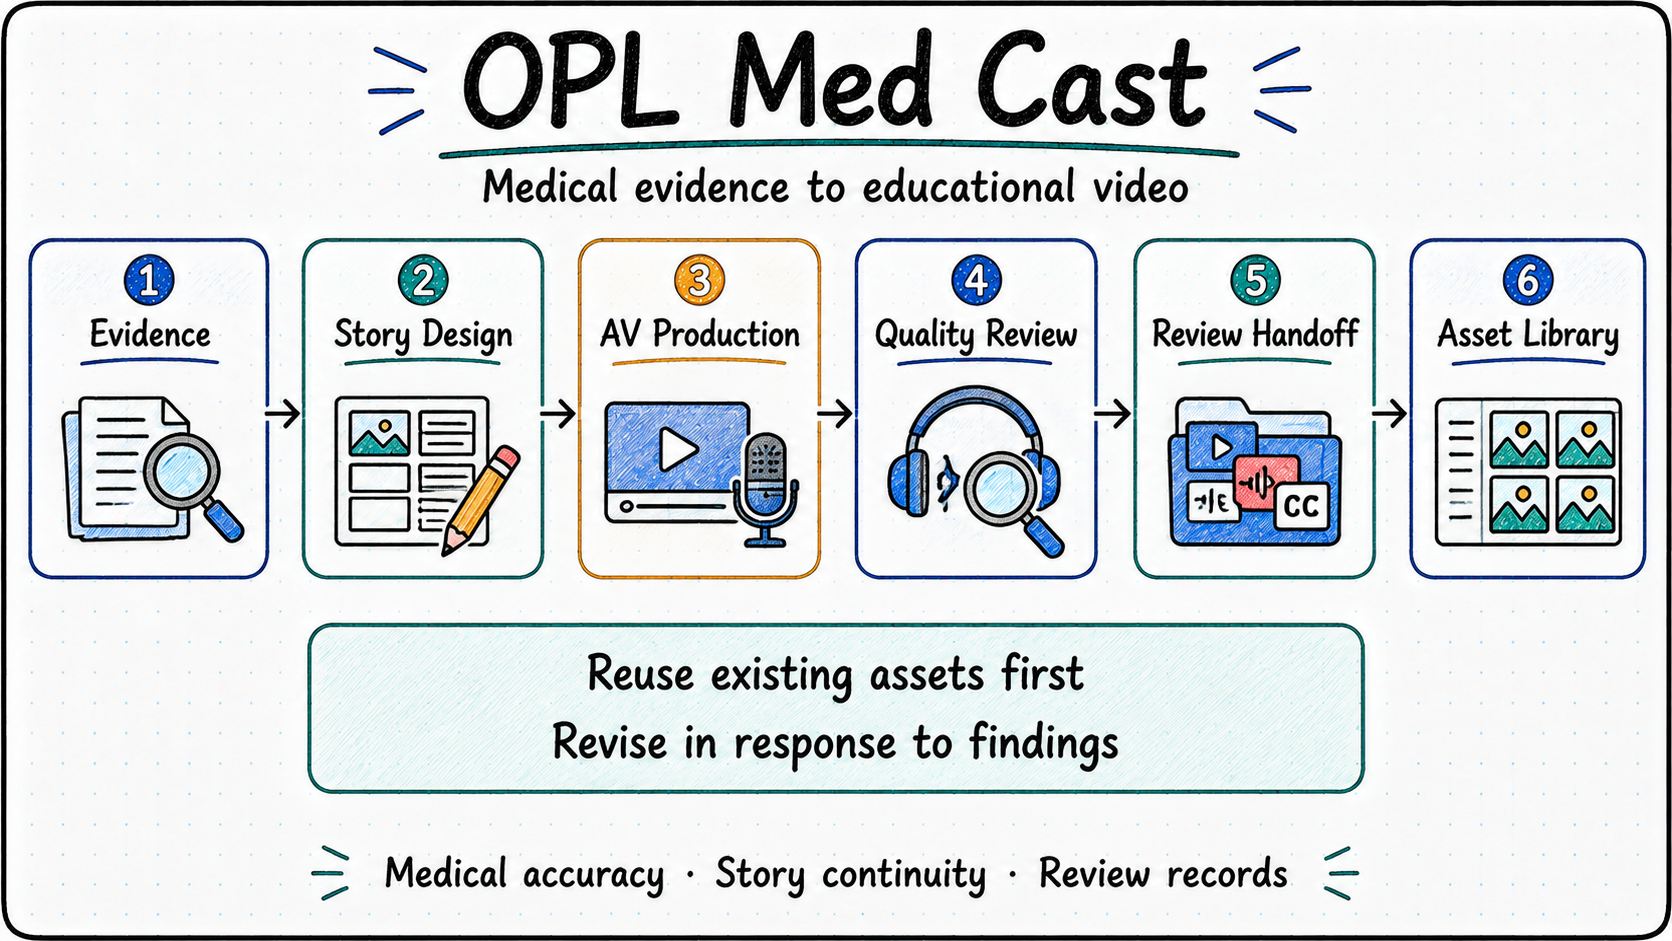
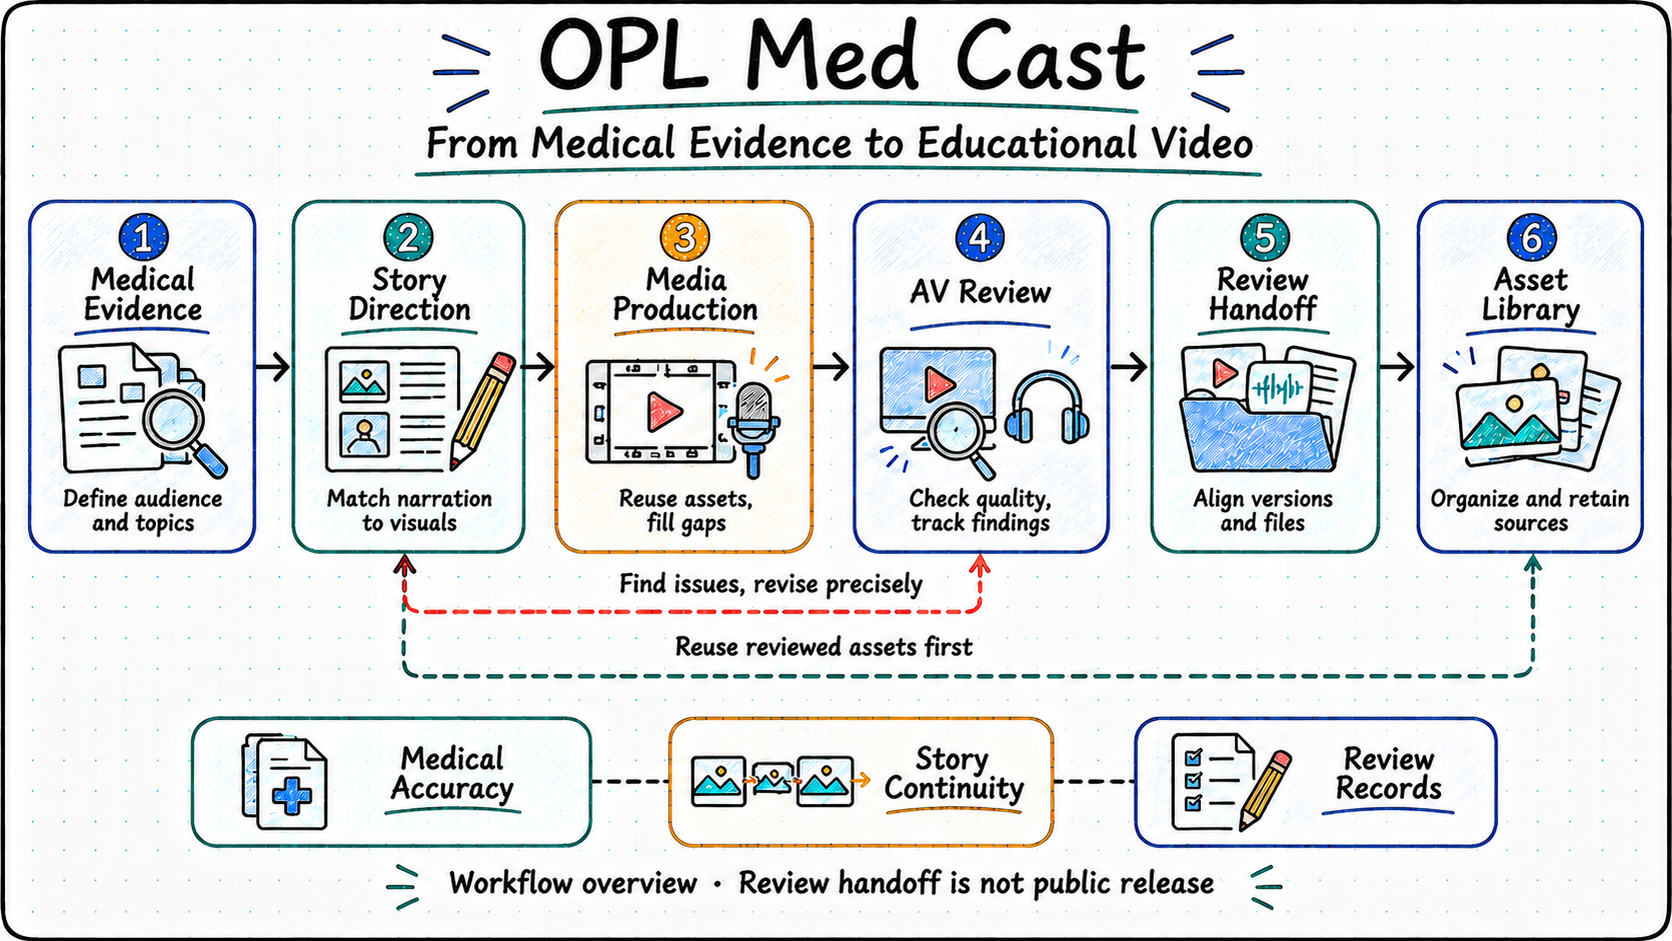
统一英文工作流示意图与 Release 展示

Changed region(s): [[0.0, 0.0, 1.0, 0.9862], [0.0, 0.9554, 0.9952, 1.0]]

diff --git a/scripts/build_release.py b/scripts/build_release.py
@@ -1,4 +1,4 @@
-"""Build versioned preview archives from an annotated, clean source commit."""
+"""Build versioned release archives from an annotated, clean source commit."""
 import hashlib
 import json
 from pathlib import Path
@@ -40,7 +40,7 @@ with zipfile.ZipFile(plugin, 'w', compression=zipfile.ZIP_DEFLATED) as archive:
         'codex plugin add opl-medcast@opl-medcast --json\n\n'
         'Python helpers require Python >=3.10 and PyYAML >=6,<7.\n'
         'Helper: plugins/opl-medcast/skills/opl-medcast/runtime/native_helpers/medcast.py\n'
-        'Preview only; OPL hosted activation and independent qualification remain pending.\n'
+        'OPL hosted activation and independent qualification remain pending.\n'
         'Source: https://github.com/gaofeng21cn/opl-medcast/tree/' + tag + '\n')
 checksums = output / 'SHA256SUMS'
 checksums.write_text(''.join(f'{hashlib.sha256(p.read_bytes()).hexdigest()}  {p.name}\n' for p in [source, plugin]))

diff --git a/docs/releases/v0.1.0.md b/docs/releases/v0.1.0.md
@@ -1,14 +1,25 @@
-# OPL Med Cast 0.1.0 · 首个公开预览版
+# OPL Med Cast 0.1.0
 
-面向医学科普视频的首个可下载版本，提供系列规划、故事与镜头设计、视听制作组织、质量复核、审看交付和关键帧资产整理方法。
+The first release of OPL Med Cast brings medical evidence, story direction, audiovisual production, review handoff, and reusable keyframe curation into one medical education video workflow.
 
-- 三个动作、六个阶段、六个专业技能，沿用 OPL 标准声明式结构。
-- 将既有制作经验落实到 SOP：优先复用素材和已审音轨，排除拒用源片，检查叙事连续性与人物构图，按具体缺陷返修。
-- 提供工作区检查、关键帧检索和交付预检三个只读辅助命令。
-- 提供中英文 README、统一风格的标志与流程示意图。
+- Three actions, six stages, and six professional skills follow the OPL declarative agent structure.
+- Production SOPs capture practical lessons: reuse reviewed assets and unchanged narration, exclude rejected footage, review story continuity and framing, and repair specific findings.
+- Three read-only helpers inspect workspaces, search the keyframe library, and check delivery packages.
+- English and Chinese READMEs share the same English workflow illustration in the OPL hand-drawn style.
 
-下载文件包括源码归档、Codex 插件包和 SHA256SUMS。市场与插件名称均为 opl-medcast，安装选择器为 opl-medcast@opl-medcast。安装与环境准备见仓库 docs/installation.md。
+## Installation
 
-14 个行为测试、OPL 结构检查、接口生成、源码目录检查、辅助程序定位和插件清单校验已通过；现有制作工作区已完成只读接入验证。
+```bash
+codex plugin marketplace add gaofeng21cn/opl-medcast --ref v0.1.0 --json
+codex plugin add opl-medcast@opl-medcast --json
+```
 
-本版本以 GitHub 预览版及 Codex 插件形式分发，未进入 OPL GHCR 稳定软件包渠道。OPL Meta Agent 工程调用在启动前因安装身份不一致受阻，尚无设计蓝图、独立资格结果或 OPL 托管激活；该问题及恢复条件见 docs/status.md。具体视频仍需分别完成视听与医学复核。
+Download the source archive, Codex plugin bundle, and `SHA256SUMS` below. Helpers require Python 3.10 or later and PyYAML 6.x. See the [installation guide](https://github.com/gaofeng21cn/opl-medcast/blob/main/docs/installation.md) for details.
+
+## Verification
+
+All 14 behavioral tests, OPL structure checks, generated interfaces, source hygiene checks, helper discovery, and plugin manifest validation passed. The extracted source also passed in a separate Python environment. A real installation from the public tag matched all 85 shipped plugin files and ran the helper successfully. All three attachments were downloaded anonymously and verified against the local release artifacts.
+
+The versioned archives and `v0.1.0` tag retain source commit `ee83b6a35f9dbc33e7a005ab43844c122ddd411b`; the updated README artwork and release documentation are available on the repository's main branch. [Release source CI](https://github.com/gaofeng21cn/opl-medcast/actions/runs/34930945109) passed.
+
+Independent OPL Meta Agent qualification, OPL hosted activation, and GHCR stable Package publication remain pending. The engineering request stopped before launch because the installed plugin identity did not match its descriptor. See [implementation status](https://github.com/gaofeng21cn/opl-medcast/blob/main/docs/status.md) for the recorded boundary and recovery conditions. Individual videos still require audiovisual and medical review.

diff --git a/plugins/opl-medcast/skills/opl-medcast/docs/releases/v0.1.0.md b/plugins/opl-medcast/skills/opl-medcast/docs/releases/v0.1.0.md
@@ -1,14 +1,25 @@
-# OPL Med Cast 0.1.0 · 首个公开预览版
+# OPL Med Cast 0.1.0
 
-面向医学科普视频的首个可下载版本，提供系列规划、故事与镜头设计、视听制作组织、质量复核、审看交付和关键帧资产整理方法。
+The first release of OPL Med Cast brings medical evidence, story direction, audiovisual production, review handoff, and reusable keyframe curation into one medical education video workflow.
 
-- 三个动作、六个阶段、六个专业技能，沿用 OPL 标准声明式结构。
-- 将既有制作经验落实到 SOP：优先复用素材和已审音轨，排除拒用源片，检查叙事连续性与人物构图，按具体缺陷返修。
-- 提供工作区检查、关键帧检索和交付预检三个只读辅助命令。
-- 提供中英文 README、统一风格的标志与流程示意图。
+- Three actions, six stages, and six professional skills follow the OPL declarative agent structure.
+- Production SOPs capture practical lessons: reuse reviewed assets and unchanged narration, exclude rejected footage, review story continuity and framing, and repair specific findings.
+- Three read-only helpers inspect workspaces, search the keyframe library, and check delivery packages.
+- English and Chinese READMEs share the same English workflow illustration in the OPL hand-drawn style.
 
-下载文件包括源码归档、Codex 插件包和 SHA256SUMS。市场与插件名称均为 opl-medcast，安装选择器为 opl-medcast@opl-medcast。安装与环境准备见仓库 docs/installation.md。
+## Installation
 
-14 个行为测试、OPL 结构检查、接口生成、源码目录检查、辅助程序定位和插件清单校验已通过；现有制作工作区已完成只读接入验证。
+```bash
+codex plugin marketplace add gaofeng21cn/opl-medcast --ref v0.1.0 --json
+codex plugin add opl-medcast@opl-medcast --json
+```
 
-本版本以 GitHub 预览版及 Codex 插件形式分发，未进入 OPL GHCR 稳定软件包渠道。OPL Meta Agent 工程调用在启动前因安装身份不一致受阻，尚无设计蓝图、独立资格结果或 OPL 托管激活；该问题及恢复条件见 docs/status.md。具体视频仍需分别完成视听与医学复核。
+Download the source archive, Codex plugin bundle, and `SHA256SUMS` below. Helpers require Python 3.10 or later and PyYAML 6.x. See the [installation guide](https://github.com/gaofeng21cn/opl-medcast/blob/main/docs/installation.md) for details.
+
+## Verification
+
+All 14 behavioral tests, OPL structure checks, generated interfaces, source hygiene checks, helper discovery, and plugin manifest validation passed. The extracted source also passed in a separate Python environment. A real installation from the public tag matched all 85 shipped plugin files and ran the helper successfully. All three attachments were downloaded anonymously and verified against the local release artifacts.
+
+The versioned archives and `v0.1.0` tag retain source commit `ee83b6a35f9dbc33e7a005ab43844c122ddd411b`; the updated README artwork and release documentation are available on the repository's main branch. [Release source CI](https://github.com/gaofeng21cn/opl-medcast/actions/runs/34930945109) passed.
+
+Independent OPL Meta Agent qualification, OPL hosted activation, and GHCR stable Package publication remain pending. The engineering request stopped before launch because the installed plugin identity did not match its descriptor. See [implementation status](https://github.com/gaofeng21cn/opl-medcast/blob/main/docs/status.md) for the recorded boundary and recovery conditions. Individual videos still require audiovisual and medical review.

diff --git a/README.md b/README.md
@@ -42,7 +42,7 @@ These actions connect six stages and can continue from existing work. An episode
 
 **Keep delivery status explicit.** Technical checks, visual review, continuous motion, full listening, medical review, and platform upload have separate records. A review package may contain clearly identified pending work; public release still requires the relevant review and authorization.
 
-## Install The Preview
+## Installation
 
 Download the source and plugin bundle from the [release page](https://github.com/gaofeng21cn/opl-medcast/releases/tag/v0.1.0), or install the pinned version with Codex CLI:
 
@@ -71,7 +71,7 @@ The `preflight` command checks the current production manifest, selected episode
 
 ## Status And Verification
 
-**Version 0.1.0 is the first public preview, distributing source and a Codex plugin. It is not on the OPL stable Package channel.** OPL structure and generated-interface checks passed, along with 14 behavioral tests. Read-only integration was verified against five existing series and 72 keyframes.
+**Version 0.1.0 is the first public release, distributing source and a Codex plugin. It is not on the OPL stable Package channel.** OPL structure and generated-interface checks passed, along with 14 behavioral tests. Read-only integration was verified against five existing series and 72 keyframes.
 
 The OPL Meta Agent engineering request was blocked before launch by an installed identity mismatch. It has not produced a blueprint or completed independent qualification. Repository structure and helper checks do not substitute for that work. See [Build status](docs/status.md) for the failure, saved request, and recovery conditions.
 

diff --git a/docs/status.md b/docs/status.md
@@ -1,10 +1,10 @@
 # 版本状态
 
-OPL Med Cast 0.1.0 是首个公开预览版本，交付源码与 Codex 插件。包含三个动作、六个工作阶段、六个专业技能，以及工作区检查、资产检索和交付预检辅助程序。
+OPL Med Cast 0.1.0 是首个公开版本，交付源码与 Codex 插件。包含三个动作、六个工作阶段、六个专业技能，以及工作区检查、资产检索和交付预检辅助程序。
 
 本地验证通过 14 个行为测试、OPL 标准结构检查、接口生成、源码目录检查和辅助程序定位。只读接入现有制作工作区，识别五个系列、72 张关键帧和两个关联视频拒用条目；拒用视频的残留可用区间不会进入检索结果。未重新制作媒体。
 
-该版本尚未完成 OPL Meta Agent 独立资格验证，也未进入 OPL 的 GHCR 稳定软件包渠道。Framework 的正式软件包发布清单尚未登记 opl-medcast。GitHub 预览版与 Codex 插件的发布、安装，不代表 OPL 托管运行激活或视频生产验收。
+该版本尚未完成 OPL Meta Agent 独立资格验证，也未进入 OPL 的 GHCR 稳定软件包渠道。Framework 的正式软件包发布清单尚未登记 opl-medcast。GitHub Release与 Codex 插件的发布、安装，不代表 OPL 托管运行激活或视频生产验收。
 
 ## 独立资格验证的断点
 

diff --git a/plugins/opl-medcast/skills/opl-medcast/docs/status.md b/plugins/opl-medcast/skills/opl-medcast/docs/status.md
@@ -1,10 +1,10 @@
 # 版本状态
 
-OPL Med Cast 0.1.0 是首个公开预览版本，交付源码与 Codex 插件。包含三个动作、六个工作阶段、六个专业技能，以及工作区检查、资产检索和交付预检辅助程序。
+OPL Med Cast 0.1.0 是首个公开版本，交付源码与 Codex 插件。包含三个动作、六个工作阶段、六个专业技能，以及工作区检查、资产检索和交付预检辅助程序。
 
 本地验证通过 14 个行为测试、OPL 标准结构检查、接口生成、源码目录检查和辅助程序定位。只读接入现有制作工作区，识别五个系列、72 张关键帧和两个关联视频拒用条目；拒用视频的残留可用区间不会进入检索结果。未重新制作媒体。
 
-该版本尚未完成 OPL Meta Agent 独立资格验证，也未进入 OPL 的 GHCR 稳定软件包渠道。Framework 的正式软件包发布清单尚未登记 opl-medcast。GitHub 预览版与 Codex 插件的发布、安装，不代表 OPL 托管运行激活或视频生产验收。
+该版本尚未完成 OPL Meta Agent 独立资格验证，也未进入 OPL 的 GHCR 稳定软件包渠道。Framework 的正式软件包发布清单尚未登记 opl-medcast。GitHub Release与 Codex 插件的发布、安装，不代表 OPL 托管运行激活或视频生产验收。
 
 ## 独立资格验证的断点
 

diff --git a/docs/decisions.md b/docs/decisions.md
@@ -1,3 +1,3 @@
 # 决策
 
-正式名OPL Med Cast；技术ID opl-medcast；领域medical_video；首个公开预览版本 0.1.0。采用Framework标准声明式骨架，以OPL Book Forge为结构参考。将工作台十阶段归并为六个语义阶段、保留六个专业Skill，不建立新的媒体调度器。关键帧留制作工作区，通过catalog检索。OMA启动失败与本地开发验证分开报告，不伪造工程完成或资格。
+正式名OPL Med Cast；技术ID opl-medcast；领域medical_video；首个公开版本 0.1.0。采用Framework标准声明式骨架，以OPL Book Forge为结构参考。将工作台十阶段归并为六个语义阶段、保留六个专业Skill，不建立新的媒体调度器。关键帧留制作工作区，通过catalog检索。OMA启动失败与本地开发验证分开报告，不伪造工程完成或资格。

diff --git a/plugins/opl-medcast/skills/opl-medcast/docs/decisions.md b/plugins/opl-medcast/skills/opl-medcast/docs/decisions.md
@@ -1,3 +1,3 @@
 # 决策
 
-正式名OPL Med Cast；技术ID opl-medcast；领域medical_video；首个公开预览版本 0.1.0。采用Framework标准声明式骨架，以OPL Book Forge为结构参考。将工作台十阶段归并为六个语义阶段、保留六个专业Skill，不建立新的媒体调度器。关键帧留制作工作区，通过catalog检索。OMA启动失败与本地开发验证分开报告，不伪造工程完成或资格。
+正式名OPL Med Cast；技术ID opl-medcast；领域medical_video；首个公开版本 0.1.0。采用Framework标准声明式骨架，以OPL Book Forge为结构参考。将工作台十阶段归并为六个语义阶段、保留六个专业Skill，不建立新的媒体调度器。关键帧留制作工作区，通过catalog检索。OMA启动失败与本地开发验证分开报告，不伪造工程完成或资格。

diff --git a/AGENTS.md b/AGENTS.md
@@ -8,3 +8,4 @@
 - 关键帧、源视频、成片、完整听感、医学复核和平台发布分别记录，不以文件存在或技术检查代替语义批准。
 - 中文维护文档；主Skill为agent/primary_skill/SKILL.md。修改后运行scripts/verify.sh。
 - 本地构建不自动授权发布、平台上传、激活或替换现有生产工作区；未获用户授权不提交或推送。
+- 两个 README 共用英文示意图；中文正文保持自然中文。Release 标题和说明使用英文，默认发布普通 Release；技术资格和生产验收状态在文档中据实记录，不据此自动改为 Pre-release。

diff --git a/docs/project.md b/docs/project.md
@@ -1,3 +1,3 @@
 # OPL Med Cast
 
-把医学证据、患者叙事、视听制作、审看交付与已审关键帧沉淀组织为OPL标准领域Agent。当前交付为 0.1.0 公开预览版本（源码与 Codex 插件），状态与真实验证见status.md，使用见仓库README.md。
+把医学证据、患者叙事、视听制作、审看交付与已审关键帧沉淀组织为OPL标准领域Agent。当前交付为 0.1.0 公开版本（源码与 Codex 插件），状态与真实验证见status.md，使用见仓库README.md。

diff --git a/plugins/opl-medcast/skills/opl-medcast/docs/project.md b/plugins/opl-medcast/skills/opl-medcast/docs/project.md
@@ -1,3 +1,3 @@
 # OPL Med Cast
 
-把医学证据、患者叙事、视听制作、审看交付与已审关键帧沉淀组织为OPL标准领域Agent。当前交付为 0.1.0 公开预览版本（源码与 Codex 插件），状态与真实验证见status.md，使用见仓库README.md。
+把医学证据、患者叙事、视听制作、审看交付与已审关键帧沉淀组织为OPL标准领域Agent。当前交付为 0.1.0 公开版本（源码与 Codex 插件），状态与真实验证见status.md，使用见仓库README.md。
